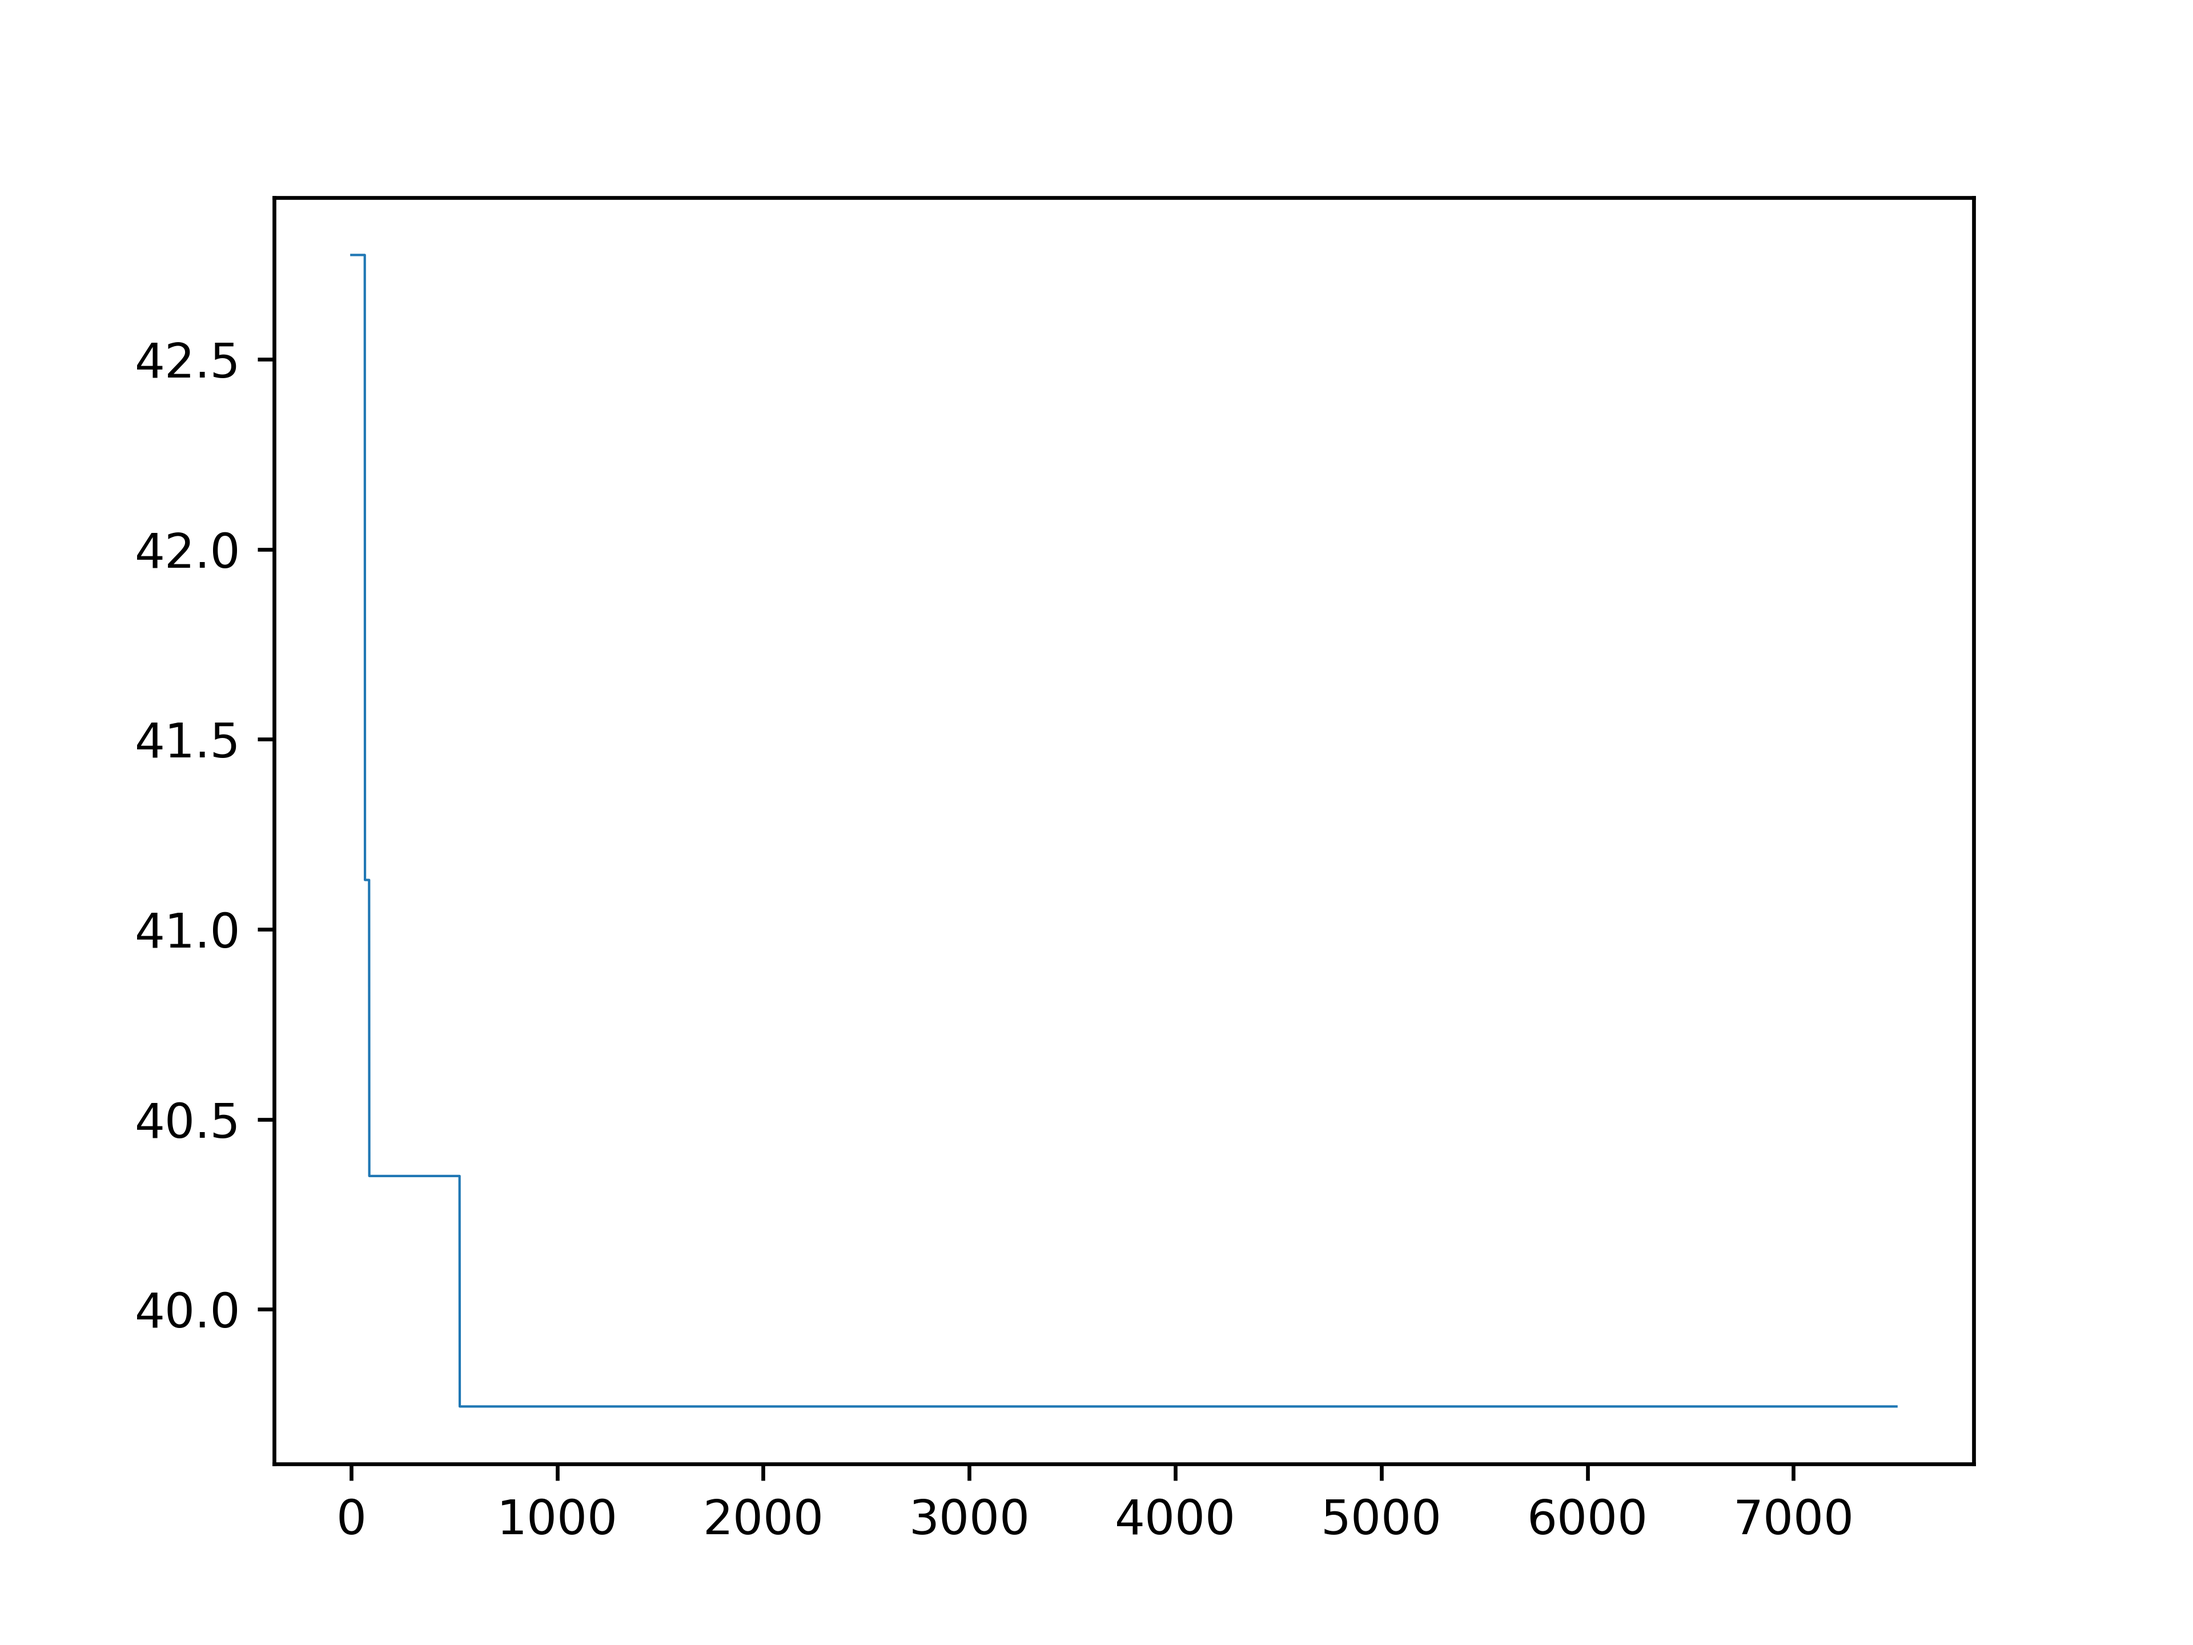
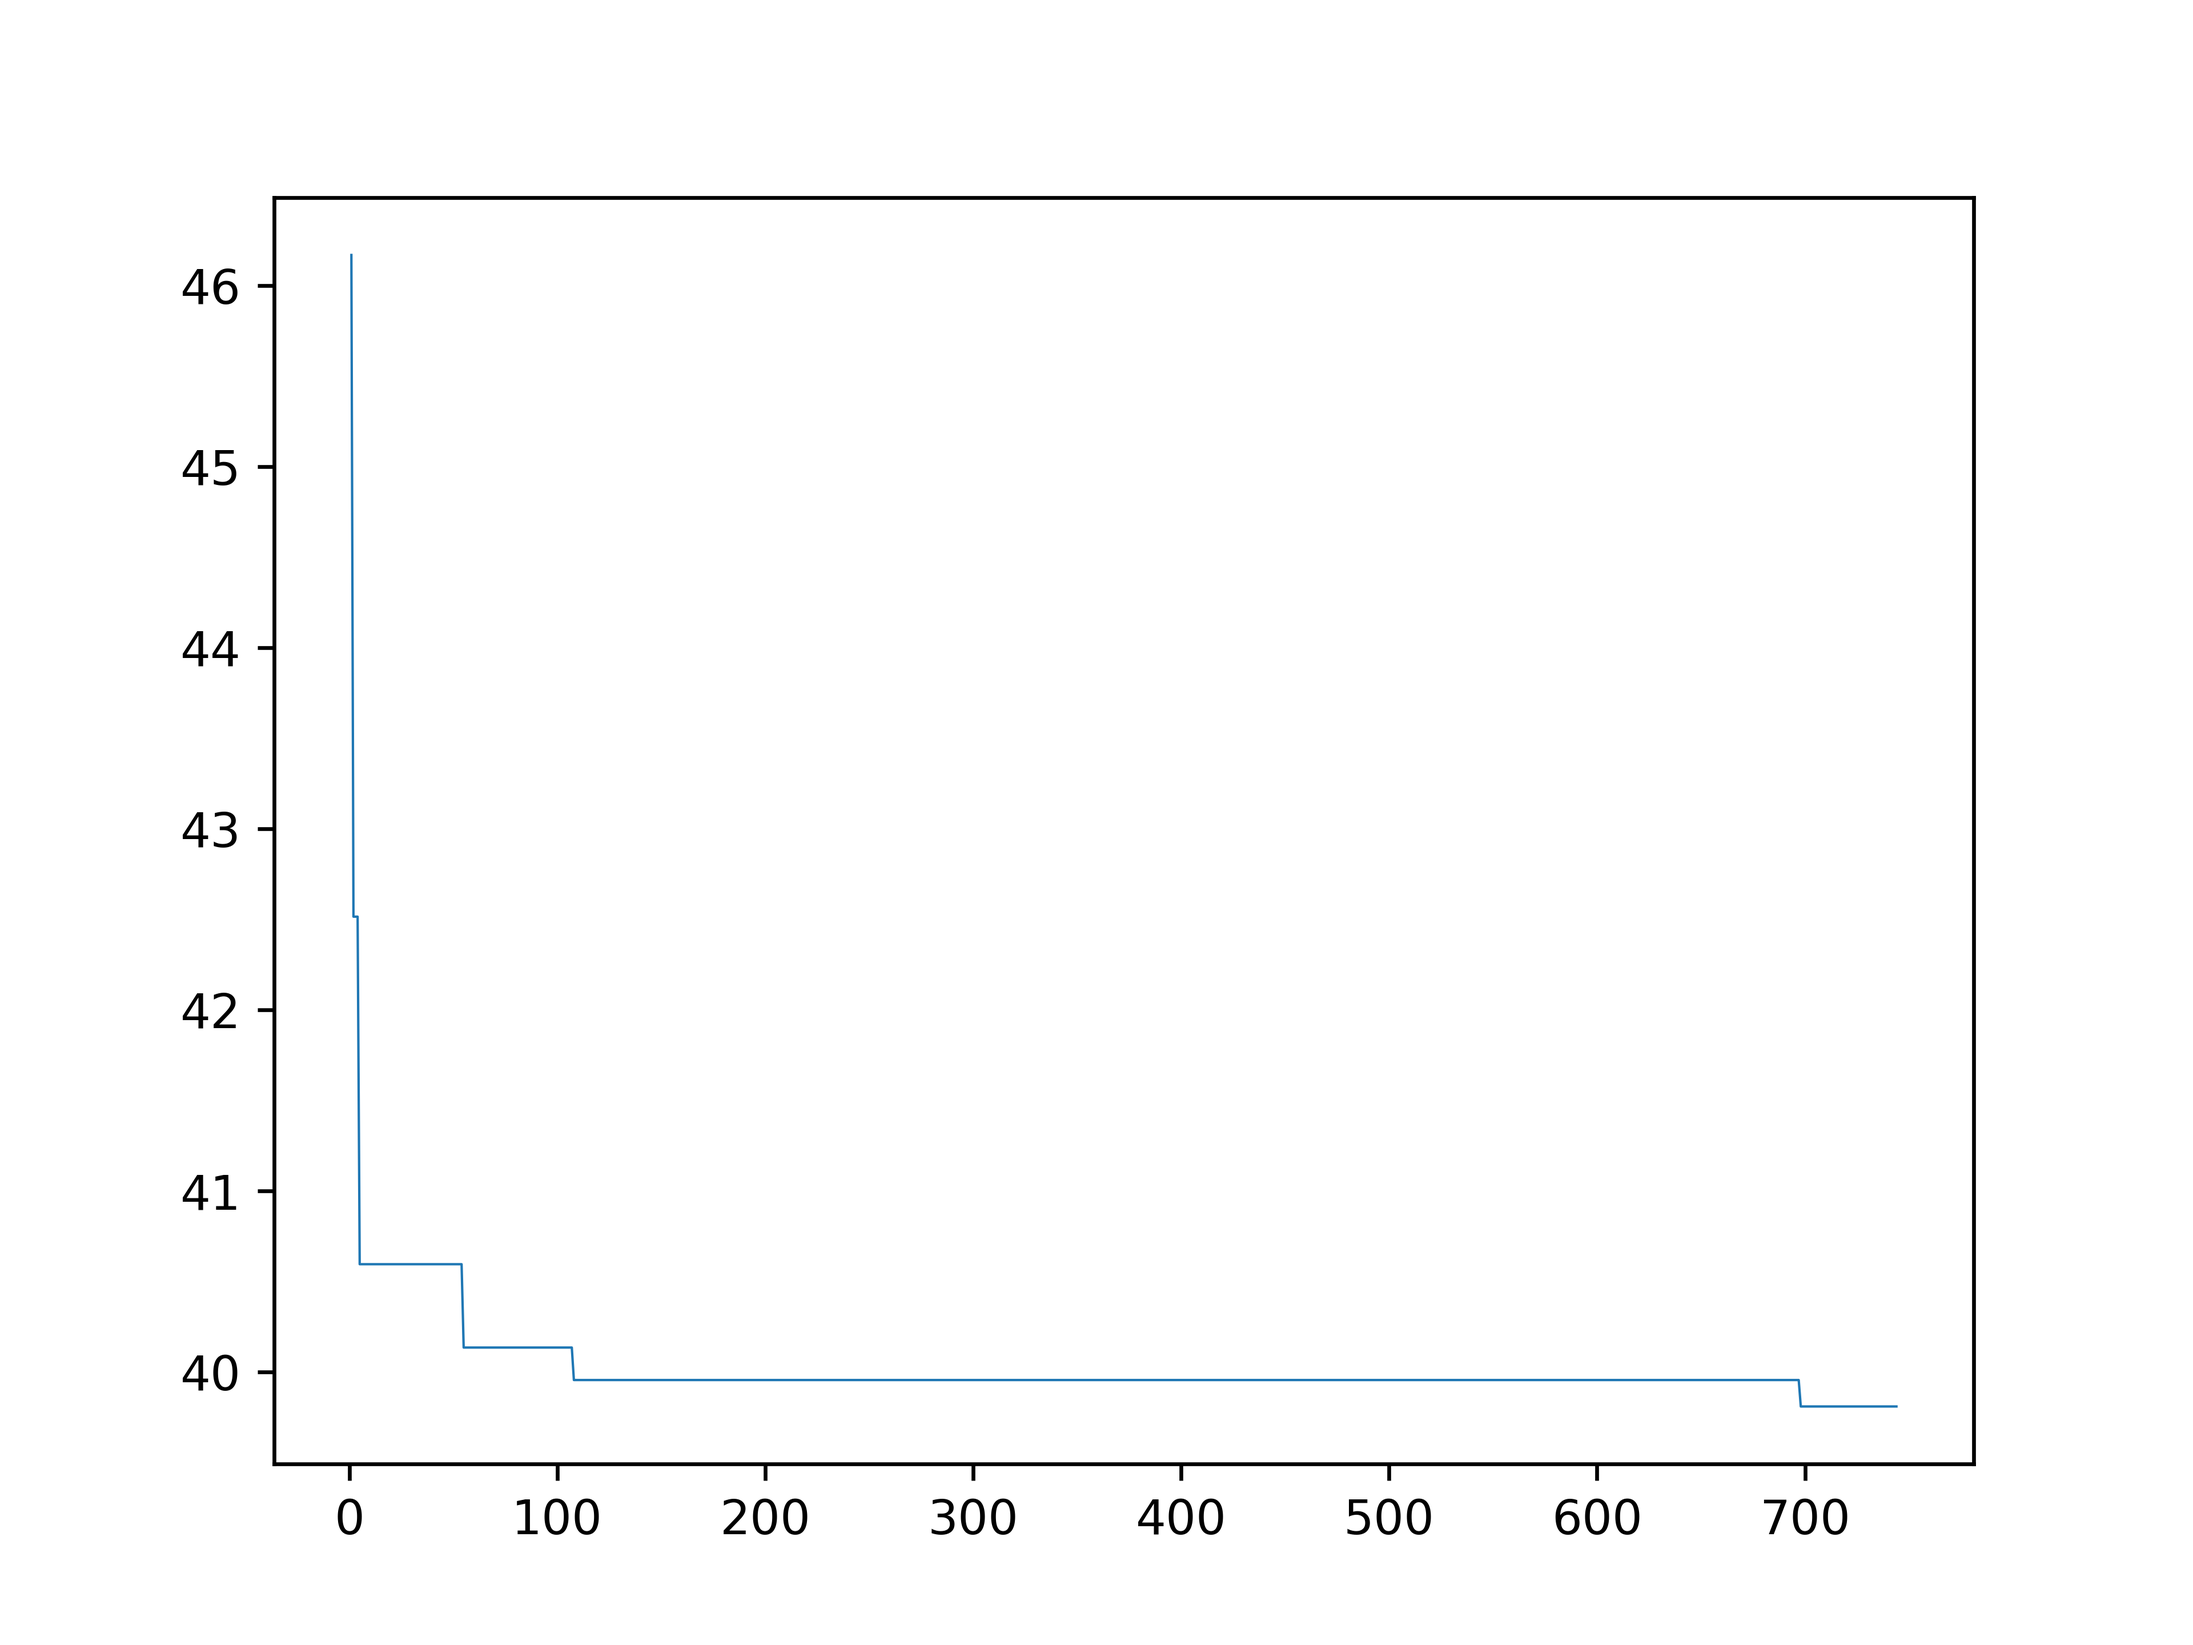
3.20更新
1 shaw算子修正
2 time_line 函数更新， 考虑订单服务时间， 算例中未考虑，但在benchmark中包含，可直接使用

diff --git a/code/algorithm_data.py b/code/algorithm_data.py
@@ -27,9 +27,20 @@ class Truck():
         node_last = self.route[insert_position - 1]
         is_insert_pass = 1
         for node in self.route[insert_position:]:
-            node_time = max(self.time_line[-1] + (algorithm_input_data.Distance_Mat[node_last,node])/self.v, algorithm_input_data.Nodes.loc[node, 'a'])
-            if node_time <= algorithm_input_data.Nodes.loc[node, 'b']:
-                self.time_line.append(node_time)
+            # # 未计算服务时间 # node_time 开始服务时间（离开时间）
+            # node_time = max(self.time_line[-1] + (algorithm_input_data.Distance_Mat[node_last,node])/self.v, algorithm_input_data.Nodes.loc[node, 'a'])
+            # if node_time <= algorithm_input_data.Nodes.loc[node, 'b']:
+            #     self.time_line.append(node_time)
+            #     node_last = node
+            # else:
+            #     is_insert_pass = 0
+            #     break
+            # 计算服务时间
+            start_time = max(self.time_line[-1] + (algorithm_input_data.Distance_Mat[node_last, node]) / self.v,
+                             algorithm_input_data.Nodes.loc[node, 'a'])
+            leave_time = start_time + algorithm_input_data.Nodes.loc[node, 'st']
+            if start_time <= algorithm_input_data.Nodes.loc[node, 'b']:
+                self.time_line.append(leave_time)
                 node_last = node
             else:
                 is_insert_pass = 0

diff --git a/code/ALNS_main.py b/code/ALNS_main.py
@@ -212,7 +212,7 @@ if __name__ == '__main__':
     # Second_stage_solution(output) should be complete.
     # if solution input stage2 is complete, then stage2 output will be complete.
     number_of_removal_orders = int(0.3 * len(algorithm_input_data.orders))
-    number_of_iter_LNS = 200
+    number_of_iter_LNS = 20
     second_stage_solution = second_stage(algorithm_input_data, first_stage_solution, number_of_removal_orders, number_of_iter_LNS)
     second_stage_solution_output_path = path_of_file + '//output//second_stage'
     mkdir(second_stage_solution_output_path)
@@ -228,8 +228,8 @@ if __name__ == '__main__':
     pair_of_removal_and_insert = [('random', 'greedy'), ('random', 'regret'), ('shaw', 'greedy'), ('shaw', 'regret'),
                                   ('worst', 'greedy'), ('worst', 'regret')]
     # pair_of_removal_and_insert = [('random', 'greedy'), ('shaw', 'greedy'), ('worst', 'greedy')]
-    number_of_iter_ALNS = 7500
-    number_of_segment_iter = 125
+    number_of_iter_ALNS = 750
+    number_of_segment_iter = 12
     ALNS_solution, grades, ALNS_best_objectives = ALNS(second_stage_solution, pair_of_removal_and_insert, number_of_iter_ALNS, number_of_segment_iter, number_of_removal_orders, algorithm_input_data)
     ALNS_best_sulution = ALNS_solution['best']['solution']
     ALNS_solution_objective = ALNS_solution['best']['objective']

diff --git a/code/removal_requests.py b/code/removal_requests.py
@@ -48,12 +48,12 @@ def relatedness_calculate_all(solution, algorithm_input_data):
         for order_j in orders:
             if order_j != order_i:
                 locations = {'A_i': algorithm_input_data.OAs.loc[order_i, 'Pickup'],
-                             'B_i': algorithm_input_data.OAs.loc[order_j, 'Pickup'],
-                             'A_j': algorithm_input_data.OAs.loc[order_i, 'Deliver'],
+                             'B_i': algorithm_input_data.OAs.loc[order_i, 'Deliver'],
+                             'A_j': algorithm_input_data.OAs.loc[order_j, 'Pickup'],
                              'B_j': algorithm_input_data.OAs.loc[order_j, 'Deliver'],
                              }
-                relatedness_d = algorithm_input_data.Distance_Mat[locations['A_i'], locations['B_i']] + \
-                                algorithm_input_data.Distance_Mat[locations['A_j'], locations['B_j']]
+                relatedness_d = algorithm_input_data.Distance_Mat[locations['A_i'], locations['A_j']] + \
+                                algorithm_input_data.Distance_Mat[locations['B_i'], locations['B_j']]
                 T = {}
                 for truck_ID, truck in solution.items():
                     for location_key, location in locations.items():
